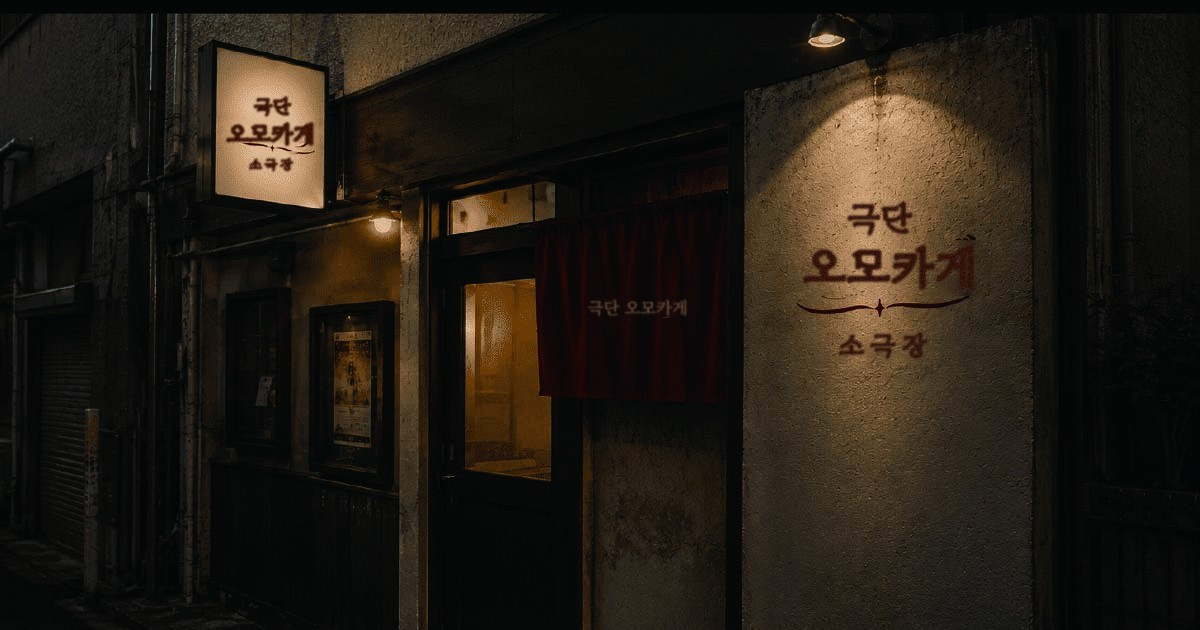
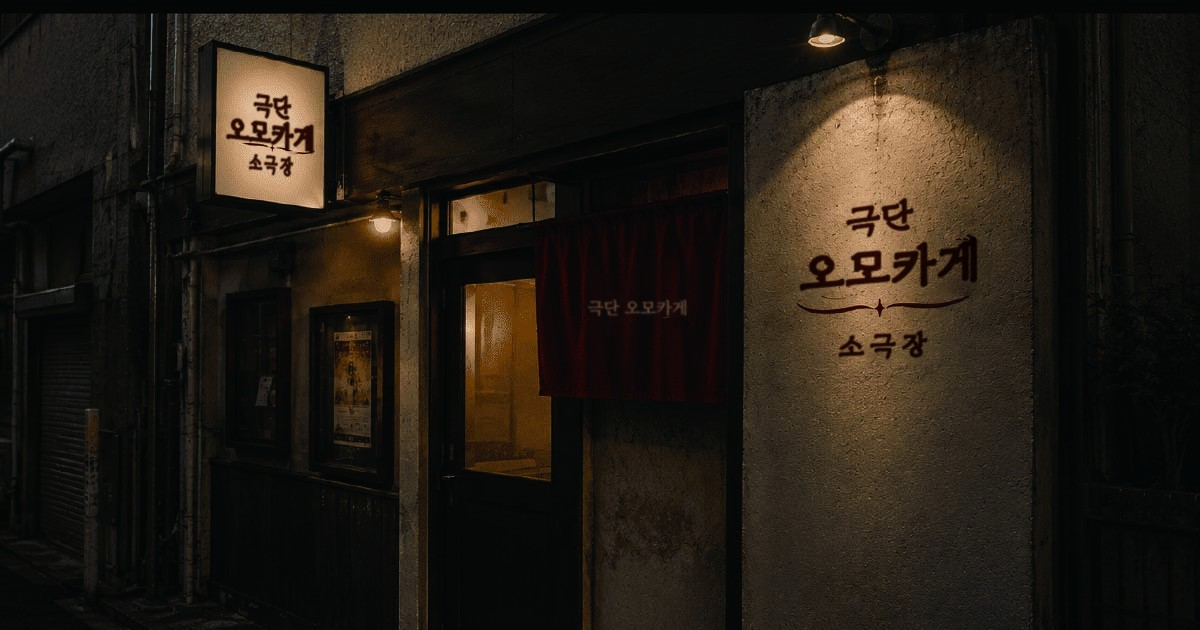
간판·벽 글자: 곱하기 혼합으로 벽 질감·조명이 비치게, 원작 잉크 색, 찌꺼기 지움; PC·ogp·트윗도 간판은 칠판 방향(-7도)·벽은 반대(8·5·2도)

Changed region(s): [[0.6475, 0.3016, 0.8325, 0.4825], [0.185, 0.1508, 0.2775, 0.2714], [0.6783, 0.5127, 0.7708, 0.573]]

diff --git a/tools/img_ko2_scripts/photo/ps_heal.jsx b/tools/img_ko2_scripts/photo/ps_heal.jsx
@@ -1,0 +1,22 @@
+// erased_<이름>.psd 의 남은 원작 글자 찌꺼기를 타원 영역 내용 인식 칠로 지운다. args: {name, spots:[[cx,cy,r],...]}
+app.displayDialogs = DialogModes.NO; app.preferences.rulerUnits = Units.PIXELS;
+var D = "C:/Users/user/arg/omokage-kr/_adobe/photo/";
+var A = (function(){ var f = new File($.fileName.replace(/\.jsx$/, ".args.txt")); f.open("r"); var t = f.read(); f.close(); return eval("(" + t + ")"); })();
+var N = A.name;
+while (app.documents.length) app.documents[0].close(SaveOptions.DONOTSAVECHANGES);
+var doc = app.open(new File(D + "erased_" + N + ".psd"));
+var L = null; for (var i = 0; i < doc.layers.length; i++) if (doc.layers[i].name == "erased") L = doc.layers[i];
+doc.activeLayer = L;
+for (var k = 0; k < A.spots.length; k++) {
+  var s = A.spots[k], x0 = s[0] - s[2], y0 = s[1] - s[2], x1 = s[0] + s[2], y1 = s[1] + s[2];
+  var d = new ActionDescriptor(), r = new ActionReference(); r.putProperty(charIDToTypeID("Chnl"), charIDToTypeID("fsel")); d.putReference(charIDToTypeID("null"), r);
+  var e = new ActionDescriptor(); e.putUnitDouble(charIDToTypeID("Top "), charIDToTypeID("#Pxl"), y0); e.putUnitDouble(charIDToTypeID("Left"), charIDToTypeID("#Pxl"), x0);
+  e.putUnitDouble(charIDToTypeID("Btom"), charIDToTypeID("#Pxl"), y1); e.putUnitDouble(charIDToTypeID("Rght"), charIDToTypeID("#Pxl"), x1);
+  d.putObject(charIDToTypeID("T   "), charIDToTypeID("Elps"), e); executeAction(charIDToTypeID("setd"), d, DialogModes.NO);
+  var f = new ActionDescriptor(); f.putEnumerated(charIDToTypeID("Usng"), charIDToTypeID("FlCn"), stringIDToTypeID("contentAware"));
+  f.putUnitDouble(charIDToTypeID("Opct"), charIDToTypeID("#Prc"), 100); f.putEnumerated(charIDToTypeID("Md  "), charIDToTypeID("BlnM"), charIDToTypeID("Nrml"));
+  executeAction(charIDToTypeID("Fl  "), f, DialogModes.NO); doc.selection.deselect();
+}
+var so = new PhotoshopSaveOptions(); so.layers = true; doc.saveAs(new File(D + "erased_" + N + ".psd"), so, true);
+doc.saveAs(new File(D + "erased_" + N + ".png"), new PNGSaveOptions(), true);
+doc.close(SaveOptions.DONOTSAVECHANGES); "ok";

diff --git a/tools/img_ko2_scripts/photo/ps_final.jsx b/tools/img_ko2_scripts/photo/ps_final.jsx
@@ -15,6 +15,11 @@ if (A.soft) { for (var k = 0; k < A.soft.length; k++) { var q = A.soft[k]; doc.a
   doc.selection.select([[q[0], q[1]], [q[2], q[1]], [q[2], q[3]], [q[0], q[3]]]);
   T.applyGaussianBlur(q[4]); T.applyAddNoise(q[5], NoiseDistribution.GAUSSIAN, true); doc.selection.deselect(); } }
 if (A.textOpacity) T.opacity = A.textOpacity;
+// mult: 벽·간판에 칠한 글자는 곱하기로 — 벽 질감·조명이 글자 위로 비친다. 사각형마다 글자 층에서 잘라 새 층으로
+if (A.mult) { for (var j = 0; j < A.mult.length; j++) { var m = A.mult[j]; doc.activeLayer = T;
+  doc.selection.select([[m[0], m[1]], [m[2], m[1]], [m[2], m[3]], [m[0], m[3]]]);
+  executeAction(charIDToTypeID("CtTL"), undefined, DialogModes.NO);
+  var ML = doc.activeLayer; ML.name = "text_mult_" + j; ML.blendMode = BlendMode.MULTIPLY; doc.selection.deselect(); } }
 var so = new PhotoshopSaveOptions(); so.layers = true; doc.saveAs(new File(D + "final_" + N + ".psd"), so, true);
 doc.saveAs(new File(OUT), new PNGSaveOptions(), true);
 doc.close(SaveOptions.DONOTSAVECHANGES); "ok";
